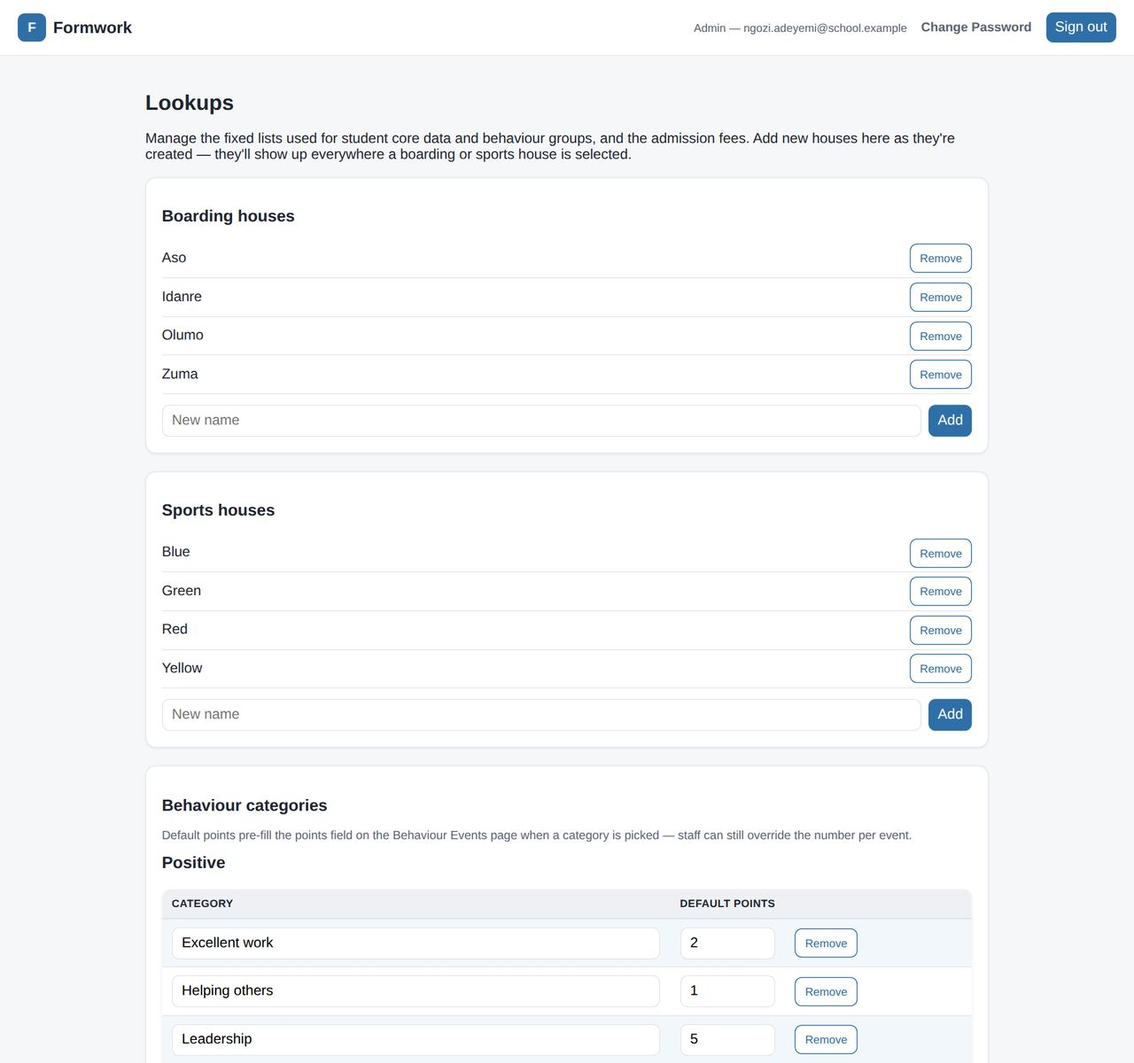
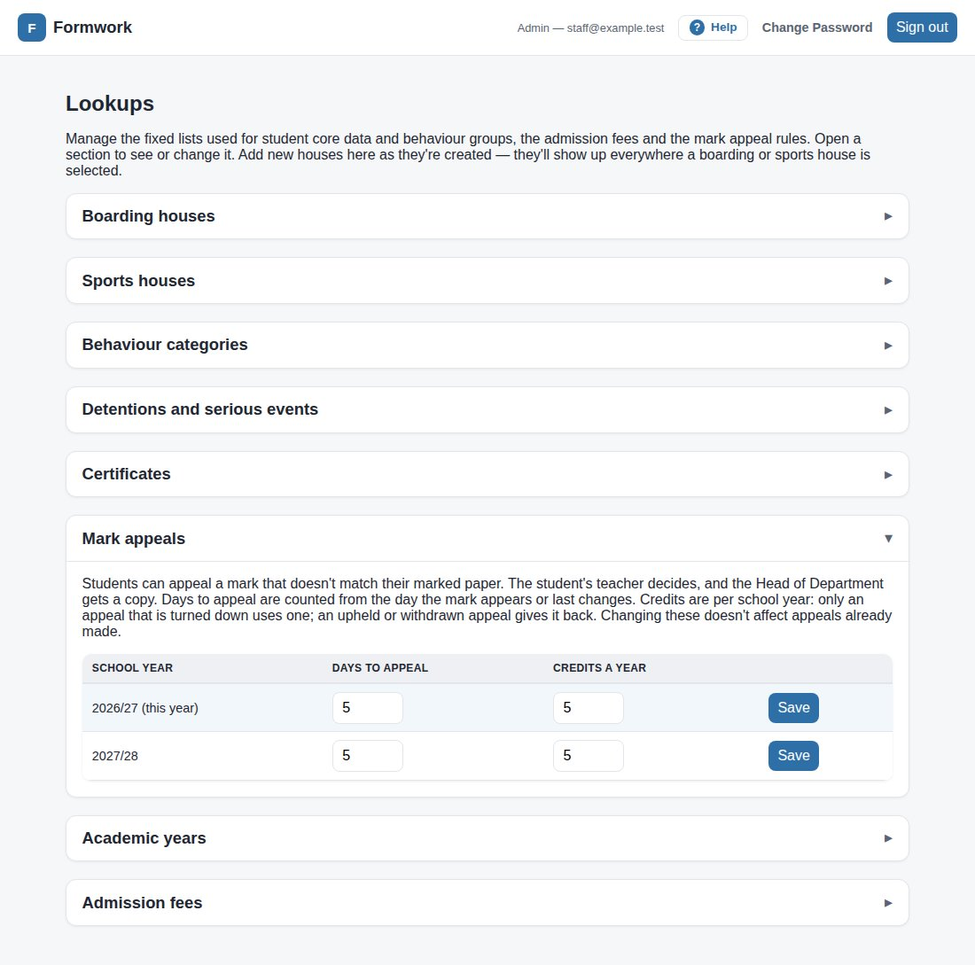
Docs: mark appeals and folded Lookups in the spec, PRD and User Manual
Snapshots re-exported from the living docs after adding mark appeals
(migrations 354-357): FR-7.24 to FR-7.30, the portal, Lookups, email and
audit tables, known issue 35; the PRD's assessment area, counts and
P1-18; the manual's new Mark appeals section with screenshots on
invented data, and the Lookups screenshot retaken. Help maps
/grade-appeals to the new section.

Claude-Session: https://claude.ai/code/session_01GqZLR4sKYWRR6BJNFo9pD5

diff --git a/lib/helpTopics.js b/lib/helpTopics.js
@@ -45,6 +45,7 @@ const PAGE_TOPICS = {
 
   '/results': ['browsing-results', 'result-sets', 'other-analysis'],
   '/results/enter': ['entering-results', 'result-sets'],
+  '/grade-appeals': ['mark-appeals', 'grade-history'],
   '/results/import': ['entering-results', 'imports'],
   '/results/import-gradebook': ['entering-results', 'imports'],
   '/results/missing': ['entering-results', 'other-analysis'],

diff --git a/docs/FUNCTIONAL_SPEC.md b/docs/FUNCTIONAL_SPEC.md
@@ -8,7 +8,7 @@ Sep 29, 2026 · @Chris TERRY
 
 ## 1. Purpose and scope
 
-This specification describes what Formwork does as built on 4 October 2026 (database migrations up to 353). It is written from the live system and its code, not from a plan, so it is a record of current behaviour, not a wish list.
+This specification describes what Formwork does as built on 4 October 2026 (database migrations up to 357). It is written from the live system and its code, not from a plan, so it is a record of current behaviour, not a wish list.
 
 **Formwork** is the school management information system (MIS) for Adorable British College, a boarding and day secondary school of about 260 students in Years 7–12. It is used by staff, students and parents at misform.work.
 
@@ -149,6 +149,7 @@ Every member of staff can read the whole student record; what each role can chan
 | --- | --- | --- |
 | Timetable, with Other Half activity | Yes | Yes |
 | Grades against targets | Yes | Yes |
+| Mark appeals | Appeal own marks from the last 5 days; 5 credits a year (FR-7.24) | No |
 | Behaviour | Own events (not voided); can appeal negatives | Only events released to parents |
 | Attendance | No | Yes, including today lesson by lesson |
 | CAT4 / NGRT scores | No | Yes |
@@ -416,6 +417,16 @@ Teachers enter percentage scores for their own classes against result sets; each
 - **FR-7.22** Parents see their own children's readings, for children still at the school, on the parent portal's Reading Age tile, which appears only once the child has two readings from the school's tests or the admissions interview (migrations 325–326: one reading isn't yet a trend, and old NGRT sittings don't count towards the two, though they are shown once the tile appears; before that the database returns parents nothing): the same dates, reading ages, ages, gaps and chart as staff (the principal, 2 Oct 2026). Students see none. Parents read them only through the database's reading-age function, never the table itself. \[DB\]
 - **FR-7.23** Every school test added, changed or removed is logged in Change History under Reading ages, with who did it. \[DB\]
 
+**Mark appeals** (/grade-appeals, migrations 354–357, the principal, 4 Oct 2026, because wrong numbers were being entered)
+
+- **FR-7.24** A student can appeal one of their own marks, in any result set, within 5 days of the mark appearing or last changing. A re-import that changes nothing doesn't restart the 5 days. They give a reason and, if they like, the mark on their paper, on the Assessment page of their portal. Parents can't appeal. \[DB\]
+- **FR-7.25** Each student has 5 appeal credits a school year. Only an appeal that is turned down uses one; an upheld or withdrawn appeal gives it back. An appeal waiting for a decision holds a credit, so a student can't have more appeals open than credits left. \[DB\]
+- **FR-7.26** One appeal per mark at a time; once decided, a mark can be appealed again only if it changes. A student can withdraw a waiting appeal. A student whose subject has no teacher in Formwork can't appeal and is told to see their mentor. \[DB\]
+- **FR-7.27** Only the student's teacher for that subject decides, at Mark Appeals (/grade-appeals, on the Assessment card; granted to teacher, head\_of\_department, assessment\_manager and smt). Upheld: the teacher enters the correct score, the grade is worked out from the subject's boundaries for the student's year group, and the change is in Grade History under the teacher's name. Turned down: the teacher must write a note, which the student sees. \[DB\]
+- **FR-7.28** The student sees their own appeals, the teacher their students', a Head of Department their department's, and SMT, assessment managers and admins every appeal. Only the teacher decides. Appeals are never deleted. \[DB\]
+- **FR-7.29** A new appeal goes to the teacher's inbox and by email, with the subject's Head of Department in cc (replies go to the Mark appeal row at Email Replies, sro@ to start). The Head of Department also gets an inbox copy naming the teacher it went to. The decision goes to the student's inbox and the Head of Department's, unless they decided it themselves; decisions aren't emailed. A student's text appears in the email as plain text, never as links or formatting. \[DB\]
+- **FR-7.30** The 5 days and 5 credits are set per school year on Lookups (Mark appeals), by anyone with that page. Changing them doesn't affect appeals already made. \[DB\]
+
 ## 11. FR-8 Reports, transcripts and documents
 
 Written reports are built only from checked comments; transcripts and score sheets are generated as PDFs and published to the student and parent portals.
@@ -570,6 +581,7 @@ Every email goes through one queue from mis@abc.sch.ng with a Reply-To chosen by
 | Welcome letters | sro@ |
 | Behaviour alert | guardian.counselling@ |
 | Detention notices | All SMT |
+| Mark appeal (to the teacher, Head of Department in cc) | sro@ |
 | Anything else | sro@ |
 
 - **FR-12.7** One admin switch pauses every email to parents; inbox copies are still delivered. It is currently off (emails are sent). \[DB\]
@@ -598,7 +610,7 @@ SMT own the calendar and terms; admins own setup, imports, permissions and backu
 | /admin/permissions | Tick which pages each role opens and which student fields it can edit | Admin (write) |
 | /staff/roles | Assign staff roles; warns when a houseparent has no house | HR, admin |
 | /staff/mentor-groups | Assign one or two staff to each mentor group | Granted roles |
-| /admin/lookups | Boarding houses, sports houses, behaviour categories and points, behaviour thresholds, detention room and time, certificate levels, academic years, admission fee proposals | Admin, SMT, HR |
+| /admin/lookups | Boarding houses, sports houses, behaviour categories and points, behaviour thresholds, detention room and time, certificate levels, academic years, admission fee proposals, mark appeal days and credits (FR-7.30). Every section starts folded closed and opens when clicked (4 Oct 2026) | Admin, SMT, HR |
 | /admin/student-numbers | Boys, girls and unknown by year, mentor group, boarding house and room (rooms counted within their house), restaurant and class | Granted roles |
 | /admin/class-lists | Print class rosters by year, subject or class | HR, school office, admin |
 | /admin/bell-times | Sessions and times for each weekday | Admin |
@@ -719,6 +731,7 @@ Formwork keeps a permanent record of every sensitive change: who made it, when, 
 | --- | --- | --- | --- | --- |
 | Change History | Registers (changes and deletions, and planned absences), fees and prices, fee approvals, academic years, behaviour events, the other students in serious events, thresholds and certificate levels, roles, permissions, ability ticks and logins, parent links, email settings, admissions, student groups (the group, its students and its staff), student records (every student added, changed or deleted; the photo is noted as changed but not copied), school reading tests (added, changed or removed), finance (funds, forecast numbers, term budgets, contingency releases, suppliers and requisitions), prep times and days with no homework | /admin/change-history: filter by dates, area, student, person and action; latest 500; CSV download | SMT, admin | Yes |
 | Grade History | Every score, target, transcript grade, homework grade and student group mark entered, changed or deleted, with old and new grade. Homework grades and group marks are hidden unless chosen, and only SMT and admins can read them | /assessments/grade-history: filter by dates, student, person, grade and action; flags where the person signed in differs from the teacher on the record; latest 500; CSV download | SMT, assessment managers, admin | Yes |
+| Mark appeals | Every appeal: the mark appealed, the student's reason and claimed mark, the outcome, the corrected mark, the teacher's note, who decided and when; never deleted (the corrected mark is also in Grade History) | /grade-appeals (waiting and decided) | The teacher (their students), Heads of Department (their department), SMT, assessment managers, admin; the student their own | Yes |
 | Fee price proposals | Each proposal, who made it, both approvals or the reason for rejecting | /bursar/fee-approvals | Bursar, SMT, principal, college secretary | Yes |
 | Charge batches | The last 100 group charges and who made them | /bursar/audit, with undo | Bursar | Yes |
 | Requisition timeline | Every step of each requisition (raised, signed, costed, approved, contingency released, received, paid, cancelled), who and when; practice entries cleared, never deleted | Each requisition on /finance/requisitions | Principal (while the budget is built) | Yes |
@@ -888,7 +901,7 @@ The database, not the browser, decides who someone is and what they may do; sens
 
 ## 24. Known issues and open decisions
 
-34 places where Formwork does not behave as its pages suggest, or where a rule is weaker than it looks; five of them (6, 30, 31, 32 and 33) have since been fixed. The first five stop something working today.
+35 places where Formwork does not behave as its pages suggest, or where a rule is weaker than it looks; five of them (6, 30, 31, 32 and 33) have since been fixed. The first five stop something working today.
 
 | # | Area | Issue | Effect | Status |
 | --- | --- | --- | --- | --- |
@@ -926,6 +939,7 @@ The database, not the browser, decides who someone is and what they may do; sens
 | 32 | Students | Any admin login could still add a student. Migration 275 left the office's rule as the only way in, but that rule's role check lets every admin through. Found 2 Oct 2026 by the Permissions page's new "What they can do" view. Migration 328 makes the rule check the school\_office role alone; run in the SQL editor on 2 Oct 2026, and admin alone can no longer add a student | FR-2.18 not enforced: admin alone can add students | Fixed |
 | 33 | Behaviour | Migration 319 (only SMT remove a merit or cancel a detention; events can't be withdrawn or moved from the app) was written on 2 Oct 2026 but never reached the live database. Found 3 Oct 2026 while preparing stage 2 of the tickable abilities; applied by migration 330 the same day. Every other migration since 300 was checked and is live | Until 3 Oct any admin could delete events, and anyone with Detention could cancel or re-date a detention | Fixed |
 | 34 | Behaviour | A reviewer's "return to teacher" note (FR-6.27) is stored on the event. The portals never show it, but a student can read their own events' data directly, so a technically minded student could read the note. It is cleared when the teacher edits the event, but stays if the reviewer sends the event to parents unchanged | Reviewers should keep notes factual (e.g. "this is Disruption in class, −2") | Open |
+| 35 | Results | A mark appeal (FR-7.27) waits until the student's teacher decides. Nobody else can decide it if the teacher is away or has left, and it holds one of the student's credits meanwhile | An appeal can wait with no end; no deadline or hand-over to the Head of Department yet | Open |
 
 Choose "Decided: keep" for anything the school is happy to leave as it is.
 

diff --git a/docs/PRD.md b/docs/PRD.md
@@ -8,7 +8,7 @@ Sep 30, 2026 · @Chris TERRY
 
 ## Summary
 
-Formwork already runs the school's daily life. The next phase is to make it trustworthy at the edges, by fixing the 28 known issues still open, and to carry it through a whole school year, from admission to year-end rollover, without anyone rebuilding data by hand.
+Formwork already runs the school's daily life. The next phase is to make it trustworthy at the edges, by fixing the 29 known issues still open, and to carry it through a whole school year, from admission to year-end rollover, without anyone rebuilding data by hand.
 
 **Where the data came from.** Adorable British College has about 260 students in Years 7–12, many of them boarders. Formwork's data came from SIMS. Enough was extracted to run a working system, but it is a subset, not a full copy:
 
@@ -87,7 +87,7 @@ Most staff use Formwork from a phone between lessons, so each task must take a f
 | Registers | Live | Any staff marks any register; 15-minute not-done alerts; a Missed Lessons list of students in school who missed a lesson, and a pop-up on the office's and the new attendance officer's screens 15 minutes into a lesson when a student seen earlier is marked absent; planned absences give a student one code (illness, holiday, exclusion and so on) over a run of days, filled into every register without overwriting a teacher's mark | 2 |
 | The Other Half | Live | Choices only in Evening Prep; capacity and year checks; a student group can be placed in an activity by the school and locked, until unlocked or a date | 5 |
 | Behaviour and detentions | Live | Points from categories; automatic Friday detentions; parent release review; who logged each event shown everywhere, including a student's profile; pictures on positive events only; witnesses, others involved and targets recorded on serious events, staff only, their names kept from parents; release to parents only through the review; only SMT can remove an event (a merit included) or cancel a detention; Stage 5 guidance and a confirmation tick when a serious event is logged, a description for each category, and the reviewer (the principal's PA or SMT) can return a wrongly graded Stage 5 to the teacher, which stops its points counting and cancels its detention at once, with every return counted per teacher | 4 |
-| Assessment and results | Live | Own-class entry; grade history log; exam sets back to 2017; assessment managers delete a wrong score from the student's profile; Class Progress is a top-row tile for Heads of Department (their department) and SMT (every class), and teachers see only their own classes in it; it loads quickly because the database picks one grade per student and subject; Heads of Department enter and change scores in their department's subjects; Years 10–11 graded on Cambridge IGCSE's June 2026 thresholds; reading ages recorded with each test's date and tracked against each student's age, by year group and form and over time, with parents seeing their own children's once there are two school or interview readings (literacy target) | 3 |
+| Assessment and results | Live | Own-class entry; grade history log; exam sets back to 2017; assessment managers delete a wrong score from the student's profile; Class Progress is a top-row tile for Heads of Department (their department) and SMT (every class), and teachers see only their own classes in it; it loads quickly because the database picks one grade per student and subject; Heads of Department enter and change scores in their department's subjects; Years 10–11 graded on Cambridge IGCSE's June 2026 thresholds; reading ages recorded with each test's date and tracked against each student's age, by year group and form and over time, with parents seeing their own children's once there are two school or interview readings (literacy target); students can appeal a mark that doesn't match their marked paper within 5 days (5 credits a year, used only by an appeal turned down), decided by their teacher, who is emailed with the Head of Department in cc | 4 |
 | Homework | Live | Set from the register or /homework, with files and links; marks converted to grades that follow the student across classes; the term's homework suggests the report's Homework judgement and prints as a grade on the written report; a class mark sheet over any dates; a student view for staff; a Homework Monitor where SMT see a year group's or one student's week as students see it, and how much of each past-due homework is marked; late joiners don't inherit earlier homework; each homework says how long it takes and goes on the prep evening before its deadline, and can't be set if any student in the class would run out of that evening's prep time (Prep Times under Pastoral); students can move it to an earlier day for their own planning, and once graded it shows its grade on its own card where it was; on students' timetables, where students tick it done; days with no homework for a year (mock exams) kept on Prep Times; every teaching group in Years 7–12 (not mentor groups, Prep or Personal Study), for their teachers, Heads of Department and SMT | 0 |
 | Reports and transcripts | Live | Draft→checked comments with AI help; KS3 and KS4/5 transcripts | 2 |
 | Tuckshop | Live | Windowed ordering; 2-food limit; locked hand-out lists, with orders a student didn't collect marked as such and not charged; one item sold to a group, ticking off each student before anyone is charged; the bursar adds paid top-ups from recorded payments; the staff Tuckshop card shows whether ordering is open and when it next opens or closes | 3 |
@@ -95,14 +95,14 @@ Most staff use Formwork from a phone between lessons, so each task must take a f
 | Clinic, pastoral, HR | Live | Nurse-only medical records; HR records; an Unallocated Students list of students missing a boarding house, a room or a lesson their year group has | 0 |
 | Messages and email | Live | One queue; Reply-To per kind; parent pause switch; messages to the students or parents of any group of students, with parents emailed | 0 |
 | Student groups | Live | Groups for activities, prefects and messages, made by SMT, pastoral and the office; lists built from six rules (negative or positive behaviour, below target, below a grade or target in one subject, a term exam average, attendance) with every setting chosen each time; mark sheets for a group, kept outside reporting; a Groups tile on the student and parent portals for groups marked to be shown (no member lists or marks) | 0 |
-| Calendar and administration | Live | SMT calendar, which parents can subscribe to on their phones; editable rules on Lookups; one school-wide order for students' tiles and every row of the staff dashboard, with the student, staff and behaviour-alert numbers on their module cards, and pages with a big tile kept off the cards; a Student Numbers report of boys and girls by year, mentor group, boarding room, restaurant and class; backups | 1 |
+| Calendar and administration | Live | SMT calendar, which parents can subscribe to on their phones; editable rules on Lookups, its sections folded closed until opened; one school-wide order for students' tiles and every row of the staff dashboard, with the student, staff and behaviour-alert numbers on their module cards, and pages with a big tile kept off the cards; a Student Numbers report of boys and girls by year, mentor group, boarding room, restaurant and class; backups | 1 |
 | Budgets and requisitions | Draft, principal only | Funds, term forecast from headcount and approved prices, income by fund, term budgets, contingency releases, approved suppliers, requisitions from raising to payment; practice entries only so far | 0 |
 | Admissions | Part-built | Applicants, tests, interviews, letters, form fee and deposit; Next Year's Numbers from places allowed per year group, boys and girls | 2 + enrolment missing |
 | Next year setup | Part-built | Academic years, mentor structure, next year's Nova-T plan | 2 + most steps missing |
 
 ## Requirements
 
-32 requirements in three priorities: P0 fixes what is broken or risky now, P1 completes admissions and the year rollover before next September, P2 tightens the rest. Priorities are proposed; the principal decides.
+33 requirements in three priorities: P0 fixes what is broken or risky now, P1 completes admissions and the year rollover before next September, P2 tightens the rest. Priorities are proposed; the principal decides.
 
 ### P0 — fix now
 
@@ -149,6 +149,7 @@ Most staff use Formwork from a phone between lessons, so each task must take a f
 | P1-15 | A passed leaving date makes the student a leaver without anyone saving the record | A daily job applies it and locks the login | Not started |
 | P1-16 | Decimal scores always get a grade | 89.5 takes the lower band, as transcripts already do | Not started |
 | P1-17 | A parent sees every current child, even when the family has two parent records with the same email | No parent login is missing a child linked to another record with its email, and a new case is caught or prevented | Done |
+| P1-18 | A mark appeal doesn't wait indefinitely when the student's teacher is away or has left | An appeal undecided after a set number of school days is passed to the Head of Department, or someone named can decide it | Not started |
 
 ### P2 — tighten later
 
@@ -216,7 +217,7 @@ This phase has worked when September 2027 opens on the right classes with nobody
 
 | Phase | Measure | Target |
 | --- | --- | --- |
-| Fix | Known issues fixed or marked "keep" | 34 of 34 |
+| Fix | Known issues fixed or marked "keep" | 35 of 35 |
 | Fix | Rules shown on a page that the database doesn't enforce, for a change to data | 0 |
 | Admissions | Accepted applicants enrolled without retyping their details | 100% |
 | Admissions | Letters sent from Formwork rather than written by hand | All seven kinds |

diff --git a/docs/USER_MANUAL.md b/docs/USER_MANUAL.md
@@ -48,6 +48,7 @@ New to Formwork? Read [How each person uses Formwork](#how-each-person-uses-form
 | Log a positive or negative behaviour point | [Logging behaviour](#logging-behaviour-behaviour) |
 | Set or mark homework | [Setting homework](#setting-homework) · [Marking](#marking-the-mark-book) |
 | Enter test or exam marks | [Entering results](#entering-results-resultsenter) |
+| Appeal a mark, or decide a student's appeal | [Mark appeals](#mark-appeals-grade-appeals) |
 | Record or track reading ages | [Reading ages](#reading-ages-reading-ages) |
 | Write or check report comments | [Reports and documents](#6-reports-and-documents) |
 | Update a student's or parent's details | [Editing a record](#editing-a-record) · [Parents and leavers](#parents-and-leavers) |
@@ -127,6 +128,7 @@ A teacher's work in Formwork happens mostly in the lesson: take the register, lo
 - Check the banner on My Timetable for any register you forgot. Taking it late still clears it from the list.
 - Mark homework that came in: open /homework, choose the class, press **Mark book**, enter marks (or Not handed in) and press **Release marks** when you want students to see them.
 - Read your **Inbox** for messages from SMT and the office.
+- If you get a mark appeal email, check the student's paper and decide it at Mark Appeals (chapter 5). Decide promptly: nobody else can, and it holds one of the student's credits.
 
 **Every week**
 
@@ -190,6 +192,7 @@ Leaders use Formwork to see what is happening across classes and the school, and
 3. Look at your department's homework on /homework: the drop-down lists every class in your subjects, and you can open any class's mark book.
 4. You can correct or delete a score in your department's subjects, and move students between classes at **Class Allocation** when sets change.
 5. **Each term**, read your department's comments before the deadline if you are a checker.
+6. You are copied on every mark appeal in your department, by email and in your inbox, and get its outcome in your inbox. Follow them at Mark Appeals; the class teacher decides.
 
 **Assessment manager**
 
@@ -325,7 +328,7 @@ When a price change is proposed, open **Fee Approvals**. Read the change and the
 - **After doing homework**: tick **Done** as a reminder for yourself. It isn't a hand-in; teachers still mark it. Grades appear once your teacher releases them.
 - **At the start of term, in Evening Prep (19:00–21:00)**: choose your Other Half activity for each weekday. Choices close on the date shown. If a day says "Placed by the school", you can't change it.
 - **Twice a week**: order from the **Tuckshop** while the window is open (Monday 5pm to Tuesday 9am for Wednesday; Wednesday 7pm to Thursday 11pm for Saturday). Up to 2 of any item and 2 food items a day; you pay when it's handed out.
-- **When you get a behaviour point you think is unfair**: open **Behaviour** and appeal it once, explaining why. Pastoral staff decide.
+- **When you get a behaviour point you think is unfair**: open **Behaviour** and appeal it once, explaining why. Pastoral staff decide. If a test mark doesn't match your marked paper, appeal it within 5 days under Assessment, Appeal a mark; your teacher checks the paper.
 - **At the end of term**: download your report and transcripts from **Assessment**.
 
 **Parents**
@@ -912,6 +915,25 @@ Every score, target and transcript grade entered, changed or deleted, with the o
 
 ![Grade History](manual-images/34-grade-history.jpg)
 
+### Mark appeals (/grade-appeals)
+
+A student who thinks a mark doesn't match their marked paper can appeal it, as they would an exam result. Their teacher checks the paper and either corrects the mark or says why it stands. Only the student's teacher for that subject decides (the principal, 4 Oct 2026).
+
+**What the student does.** On the **Assessment** page of their portal, under **Appeal a mark**, they see their marks from the last 5 days. They press **Appeal**, give a reason and, if they like, the mark on their paper, then press **Send appeal**. Each student has 5 credits a school year: an appeal that is turned down uses one, and an upheld or withdrawn appeal gives it back. An appeal still waiting can be withdrawn with **Withdraw**. Parents can't appeal.
+
+![A student appealing a mark, with their earlier appeals below](manual-images/116-portal-appeals.jpg)
+
+**Deciding an appeal (teachers).** You get an email, with your Head of Department copied in, and a message in your inbox. Open **Mark Appeals** from the Assessment card.
+
+1. Find the appeal under **Waiting for a decision**. It shows the mark, what the student says their paper shows, and their reason.
+2. Check the student's paper.
+3. If the mark was entered wrongly, type the **Correct score** and press **Uphold**. The grade is worked out from the boundaries, the mark is changed, and the change is kept in Grade History under your name. If you have already corrected it on Enter Results, press **Uphold** without a score.
+4. If the mark is right, write a note to the student and press **Turn down**. The note is required, and the student sees it.
+
+![Mark Appeals: two appeals waiting and one decided](manual-images/38-mark-appeals.jpg)
+
+The student gets the outcome in their inbox, and so does the Head of Department, who can follow their department's appeals on the same page but can't decide them. SMT, assessment managers and admins see every appeal. Appeals are never deleted. Please decide promptly: a waiting appeal holds one of the student's credits, and nobody else can decide it if you are away. The 5 days and 5 credits are set on Lookups (chapter 14).
+
 ### Reading ages (/reading-ages)
 
 Literacy is one of the school's improvement targets, so every student's reading age is tracked against their actual age from the admissions interview onwards. The **gap** is the reading age minus the student's age on the day of the test: **−1 y 2 m** means reading 14 months below their age, **+8 m** means 8 months above. Formwork works out the age and the gap from the date of birth and the test date; nobody types them.
@@ -1218,6 +1240,7 @@ Nobody reads mis@abc.sch.ng, so each kind of email carries a Reply-To. SMT and a
 | Welcome letters | sro@ |
 | Behaviour alert | guardian.counselling@ |
 | Detention notices | All SMT |
+| Mark appeal (to the teacher, Head of Department in cc) | sro@ |
 | Admissions letters | The sender |
 | Anything else | sro@ |
 
@@ -1453,6 +1476,7 @@ Students and parents see only their own information: a student their own record,
 | Other Half | Choose during Evening Prep | See the chosen activity |
 | Groups | Groups shown to students | Groups shown to parents |
 | Inbox | Yes | Yes |
+| Mark appeals | Appeal own marks from the last 5 days (5 credits a year) | No |
 
 ### The student portal
 
@@ -1462,7 +1486,7 @@ After signing in, a student sees big tiles (in the order set at /admin/tile-orde
 
 ![The student portal](manual-images/111-portal.jpg)
 
-**Timetable** shows the week with teachers and rooms, the student's Other Half activity, and homework on the lesson it's due in. **Assessment** shows the latest grade in each subject beside the target (green above, amber on, red below), downloadable term test scores and transcripts, and documents published by the school. **Behaviour** lists their events; a negative one can be appealed once, with a reason.
+**Timetable** shows the week with teachers and rooms, the student's Other Half activity, and homework on the lesson it's due in. **Assessment** shows the latest grade in each subject beside the target (green above, amber on, red below), downloadable term test scores and transcripts, and documents published by the school. **Behaviour** lists their events; a negative one can be appealed once, with a reason. Under Assessment, Appeal a mark lists marks from the last 5 days that can be appealed (chapter 5, Mark appeals).
 
 ![A student's timetable with homework and the Other Half](manual-images/112-portal-tt.jpg)
 
@@ -1525,9 +1549,9 @@ Add staff (name, code, email: a login is created automatically from the email) a
 
 ### Lookups (/admin/lookups)
 
-The lists and settings the rest of Formwork uses: boarding houses, sports houses, behaviour categories with their points and a short description of when to use each (admins only), the behaviour thresholds and detention room and time, the Stage 5 guidance shown to staff when they log a serious event (under Detentions and serious events: start a line with • or - for a list, end a line with a colon for a heading, then press Save guidance), certificate levels, academic years, and admission fee proposals. Thresholds must be negative whole numbers and apply to new events only. Changes are logged.
+The lists and settings the rest of Formwork uses: boarding houses, sports houses, behaviour categories with their points and a short description of when to use each (admins only), the behaviour thresholds and detention room and time, the Stage 5 guidance shown to staff when they log a serious event (under Detentions and serious events: start a line with • or - for a list, end a line with a colon for a heading, then press Save guidance), certificate levels, academic years, admission fee proposals, and the mark appeal rules (days to appeal and credits a year, for each school year). Every section starts folded closed: click its title to open it. Thresholds must be negative whole numbers and apply to new events only. Changes are logged.
 
-![Lookups](manual-images/122-lookups.jpg)
+![Lookups, every section closed except Mark appeals](manual-images/122-lookups.jpg)
 
 ### Timetable setup
 
